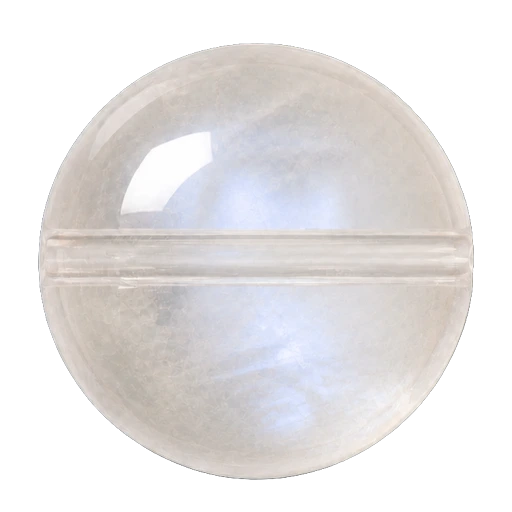
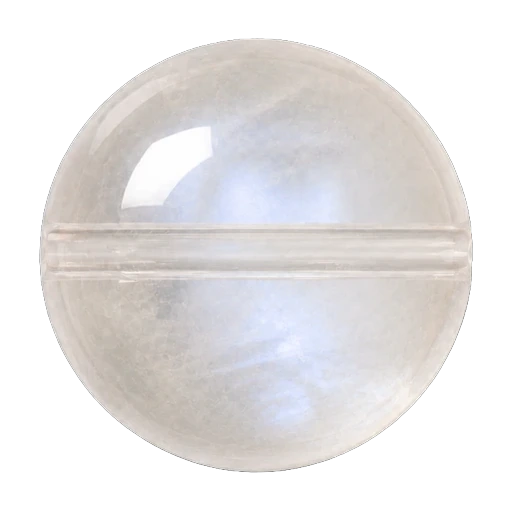
fix(assets): normalize photographic bead bounds

diff --git a/scripts/ui-qa/bead_postprocess.py b/scripts/ui-qa/bead_postprocess.py
@@ -1,24 +1,29 @@
-"""Convert generated white-background bead photos into 512x512 RGBA webp assets.
+"""Convert source bead photos into centered 512x512 RGBA webp assets.
 
-Flood-fills from the four corners so interior highlights stay opaque,
-then crops to the bead's bounding box and rescales to ~85% frame coverage.
+Flood-fills white studio backgrounds from the four corners so interior
+highlights stay opaque, then crops to the alpha bounds and rescales the
+longest side to the target frame fill without distorting aspect ratio.
 """
+
+from __future__ import annotations
+
+import argparse
 import sys
 from pathlib import Path
 
 from PIL import Image
 
 FRAME = 512
-TARGET_FILL = 0.85
+DEFAULT_TARGET_FILL = 0.85
+FILL_MIN = 0.84
+FILL_MAX = 0.86
 
 
-def process(source: Path, target: Path) -> None:
-    image = Image.open(source).convert("RGBA")
-    image = image.resize((FRAME, FRAME), Image.LANCZOS) if image.size != (FRAME, FRAME) else image
+def _flood_fill_white(image: Image.Image) -> Image.Image:
     width, height = image.size
     pixels = image.load()
     visited = bytearray(width * height)
-    stack = []
+    stack: list[tuple[int, int]] = []
     for x in range(width):
         stack.append((x, 0))
         stack.append((x, height - 1))
@@ -59,26 +64,65 @@ def process(source: Path, target: Path) -> None:
             )
             if near_transparent:
                 pixels[x, y] = (r, g, b, 140)
+    return image
 
+
+def _prepare_source(source: Path) -> Image.Image:
+    image = Image.open(source).convert("RGBA")
+    # JPEG / opaque studio photos need white-background removal.
+    if source.suffix.lower() in {".jpg", ".jpeg"}:
+        if max(image.size) > FRAME:
+            scale = FRAME / max(image.size)
+            image = image.resize(
+                (max(1, round(image.width * scale)), max(1, round(image.height * scale))),
+                Image.LANCZOS,
+            )
+        image = _flood_fill_white(image)
+    return image
+
+
+def process(source: Path, target: Path, target_fill: float = DEFAULT_TARGET_FILL) -> None:
+    if not FILL_MIN <= target_fill <= FILL_MAX:
+        raise SystemExit(f"--target-fill must be between {FILL_MIN} and {FILL_MAX}, got {target_fill}")
+    if source.resolve() == target.resolve():
+        raise SystemExit("source and target must differ")
+
+    image = _prepare_source(source)
     alpha = image.getchannel("A")
     bbox = alpha.getbbox()
-    if bbox:
-        content = image.crop(bbox)
-        longest = max(content.size)
-        scaled = int(FRAME * TARGET_FILL / longest * max(content.size))
-        scaled = max(1, min(FRAME, scaled))
-        content = content.resize((scaled, scaled), Image.LANCZOS)
-        canvas = Image.new("RGBA", (FRAME, FRAME), (0, 0, 0, 0))
-        canvas.paste(
-            content,
-            ((FRAME - content.size[0]) // 2, (FRAME - content.size[1]) // 2),
-            content
-        )
-        image = canvas
+    if not bbox:
+        raise SystemExit(f"source has empty alpha bounds: {source}")
 
-    image.save(target, "WEBP", quality=92, method=6)
-    print(f"wrote {target}")
+    content = image.crop(bbox)
+    longest = max(content.size)
+    target_longest = round(FRAME * target_fill)
+    if longest != target_longest:
+        scale = target_longest / longest
+        new_size = (
+            max(1, round(content.width * scale)),
+            max(1, round(content.height * scale)),
+        )
+        content = content.resize(new_size, Image.LANCZOS)
+
+    canvas = Image.new("RGBA", (FRAME, FRAME), (0, 0, 0, 0))
+    paste_x = (FRAME - content.width) // 2
+    paste_y = (FRAME - content.height) // 2
+    canvas.paste(content, (paste_x, paste_y), content)
+
+    target.parent.mkdir(parents=True, exist_ok=True)
+    canvas.save(target, "WEBP", quality=92, method=6)
+    print(f"wrote {target} fill={target_fill} longest={max(content.size)}")
+
+
+def main(argv: list[str] | None = None) -> int:
+    parser = argparse.ArgumentParser(description="Normalize one bead photo into a 512x512 RGBA webp.")
+    parser.add_argument("source", type=Path)
+    parser.add_argument("target", type=Path)
+    parser.add_argument("--target-fill", type=float, default=DEFAULT_TARGET_FILL)
+    args = parser.parse_args(argv)
+    process(args.source, args.target, args.target_fill)
+    return 0
 
 
 if __name__ == "__main__":
-    process(Path(sys.argv[1]), Path(sys.argv[2]))
+    sys.exit(main())
